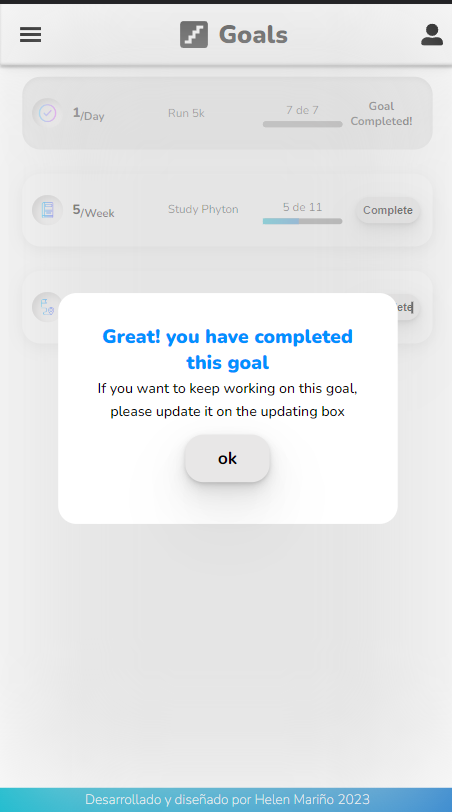
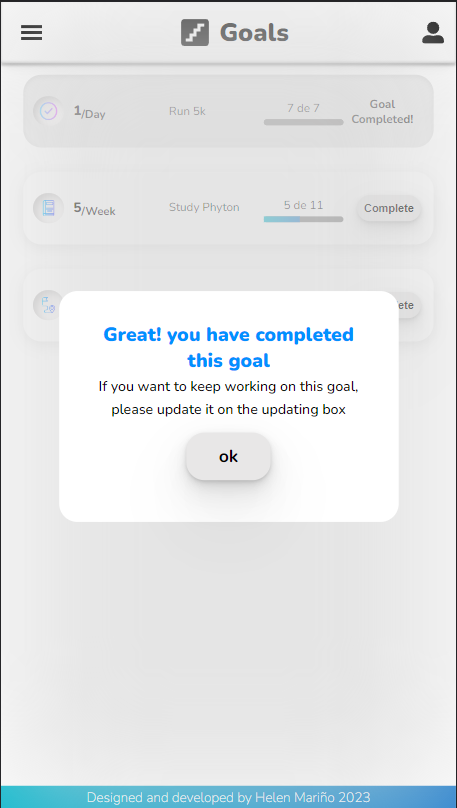
images added

diff --git a/src/Componentes/Shared/Footer.tsx b/src/Componentes/Shared/Footer.tsx
@@ -5,7 +5,7 @@ const Footer = () => {
   return (
     <footer className={styles.footerBg}>
       <small className={styles.footerText}>
-        Desarrollado y diseñado por Helen Mariño 2023
+      Designed and developed by Helen Mariño 2023
       </small>
     </footer>
   );
